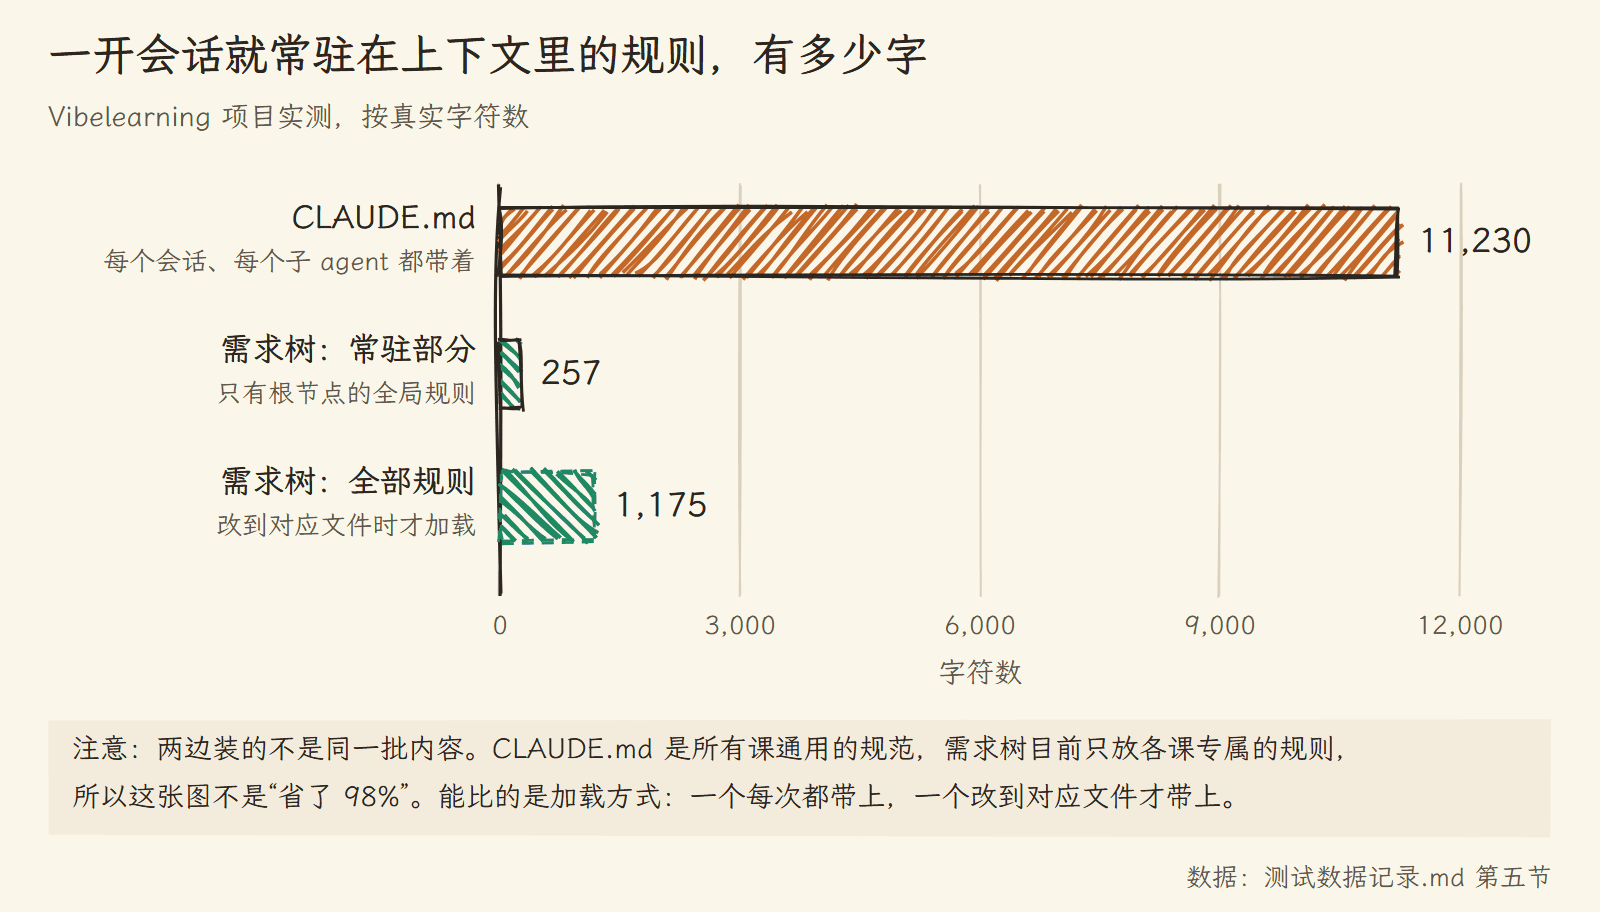
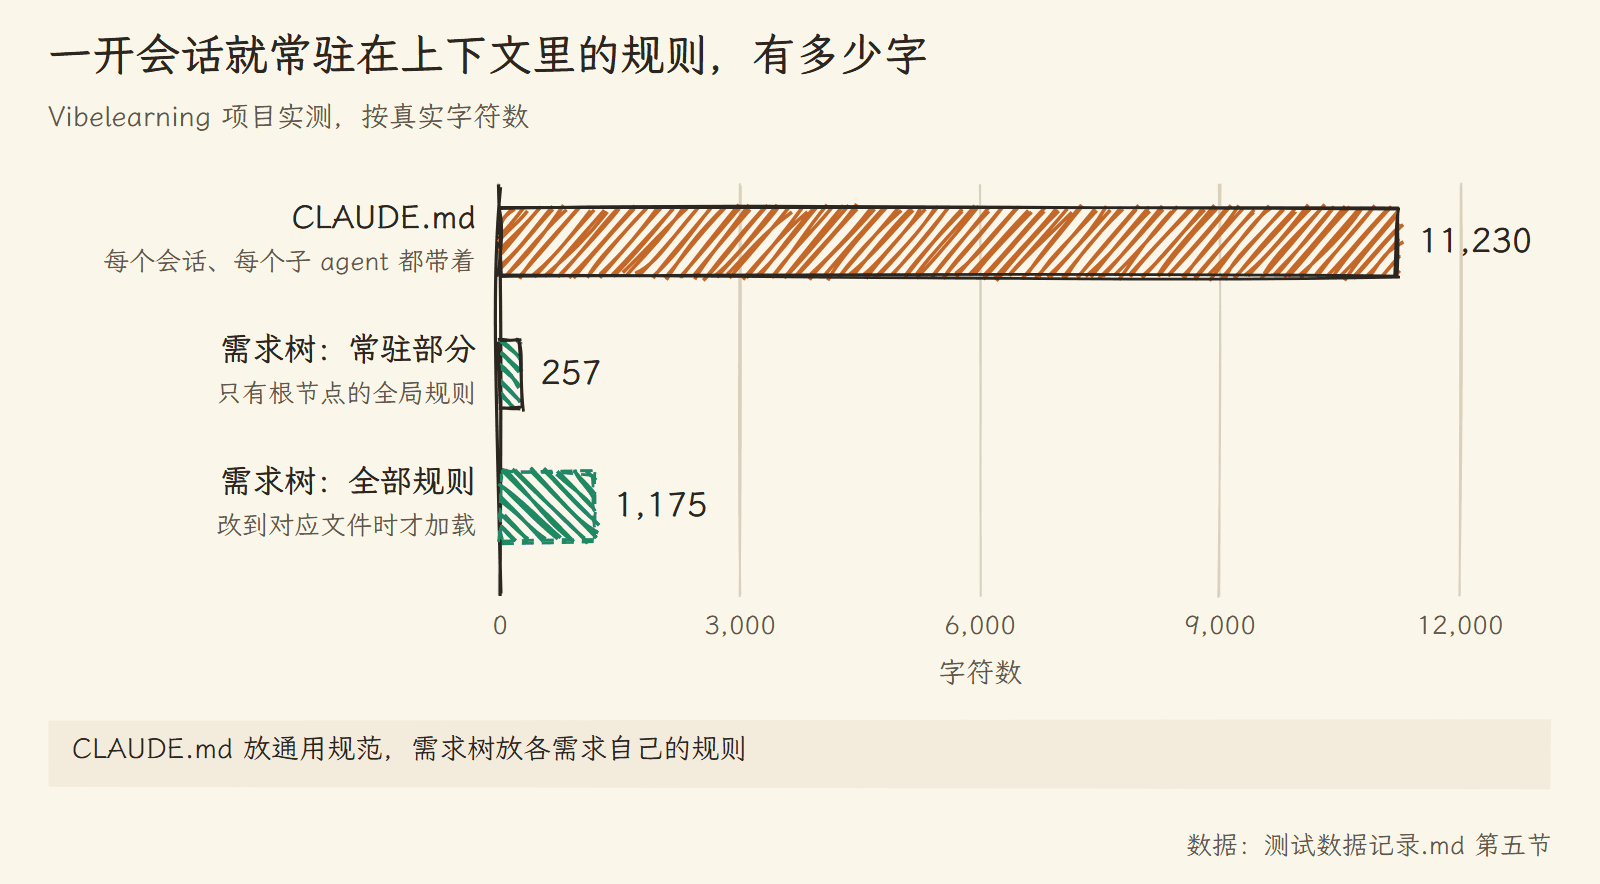
README 去掉防御性写法，图表脚注精简；安装说明加入一键启用、npx 和 Codex

diff --git a/README.en.md b/README.en.md
@@ -2,7 +2,7 @@
 
 **Help your AI coding assistant remember the rules you set: every rule lives in one place, the assistant gets only the rules for the files it is editing, and the long-term requirements you mention in chat are recorded automatically.**
 
-For [Claude Code](https://claude.com/claude-code), with a VS Code extension. **English** | [中文](README.md)
+For [Claude Code](https://claude.com/claude-code) and [OpenAI Codex](https://developers.openai.com/codex), with a VS Code extension. **English** | [中文](README.md)
 
 > 🚧 The code is getting its final cleanup and tests and will be uploaded here shortly. For now you can read the introduction and the test data.
 
@@ -20,7 +20,7 @@ And the longer the conversation, the more the assistant forgets. After context c
 
 ![Rules scattered across many places](docs/images/en/pain.png)
 
-This is not hypothetical. The author audited their own course project after a few months of work: across 21 rule documents (over 80,000 characters), there were **237 duplicated, contradictory or outdated rules**. One document said "run only one agent at a time", another said "two or three chapters can run in parallel"; the same "three checks" rule had been copied 15 times.
+The author audited their own course project after a few months of work: 21 rule documents, over 80,000 characters, **237 duplicated, contradictory or outdated rules**. One document said "run only one agent at a time", another said "two or three chapters can run in parallel"; the same "three checks" rule had been copied 15 times.
 
 ## What it does for you
 
@@ -41,20 +41,22 @@ This is not hypothetical. The author audited their own course project after a fe
 |---|---|
 | <img src="docs/images/ui-sidebar.png" width="300"> | <img src="docs/images/ui-map.png" width="560"> |
 
-Rendered with the extension's own UI code in a browser preview, using `example/需求树.md`.
-
 ## Getting started
 
-**You need** Node.js 18+, Claude Code and VS Code.
+**You need** Node.js 18+, VS Code, and Claude Code or OpenAI Codex.
 
-1. Get the repo and enable it for your project:
-   ```bash
-   git clone https://github.com/penstic123-code/Vibecoding-Friend.git
-   node Vibecoding-Friend/bin/reqtree.js init <your-project>
-   ```
-   This adds hooks to the project's `.claude/settings.local.json` and creates a template `需求树.md` if there is none.
-2. Install the VS Code extension: download `reqtree-<version>.vsix` from [Releases](https://github.com/penstic123-code/Vibecoding-Friend/releases), then Extensions → `…` → "Install from VSIX".
+1. Install the VS Code extension: download `reqtree-<version>.vsix` from [Releases](https://github.com/penstic123-code/Vibecoding-Friend/releases), then Extensions → `…` → "Install from VSIX".
+2. Open your project. The extension asks whether to enable ReqTree here — click enable. (Or run "需求树：在本项目启用" from the command palette.)
 3. Start a new Claude Code session and work as usual.
+
+Prefer the command line?
+
+```bash
+npx github:penstic123-code/Vibecoding-Friend init <your-project>               # Claude Code
+npx github:penstic123-code/Vibecoding-Friend init <your-project> --tool codex # OpenAI Codex
+```
+
+Enabling installs hooks in the project (Claude Code: `.claude/settings.local.json`; Codex: `.codex/hooks.json` plus a managed block in `AGENTS.md`) and creates a template `需求树.md` if there is none. The hook scripts are copied to `~/.reqtree/runtime/` and refreshed when the extension updates. For Codex details see [docs/codex.md](docs/codex.md) (in Chinese).
 
 Day to day you don't do anything extra:
 - Say "from now on, end every chapter with a reflection question", and after that turn it appears in the tree.
@@ -114,7 +116,7 @@ Everything revolves around one file. While you chat, a background recorder write
 | Hooks add nothing to the conversation | ✅ |
 | Old rules are rewritten instead of duplicated, so the tree doesn't keep growing | ✅ |
 | The recorder uses the inexpensive Haiku model in the background; short replies skip it | ✅ |
-| Context meter: which rules each session loaded and how many characters each | In progress |
+| Context meter: which rules each session loaded, how many characters each, resident vs on demand | Logging done; panel view in progress |
 | Split CLAUDE.md: move requirement-specific content into the tree so it loads on demand | Planned |
 | Cross-file duplicate and contradiction check between the tree, CLAUDE.md and project docs | Planned (experiment script exists) |
 
@@ -122,27 +124,27 @@ Everything revolves around one file. While you chat, a background recorder write
 
 ## Test data
 
-Every number comes from [`测试数据记录.md`](测试数据记录.md) (the test log, in Chinese), including the experiments that did not show an advantage.
+Raw data and experiment conditions are in [`测试数据记录.md`](测试数据记录.md) (the test log, in Chinese).
 
 **Does the recorder judge correctly?** Six kinds of situations, three runs each, with the real Haiku model: a reworded duplicate is not added, a change of mind rewrites the original rule, a genuinely new rule is added, a one-off instruction is ignored, a rejected rule is deleted, and a child repeating its parent is not added. 18 out of 18 correct.
 
 ![Recorder accuracy](docs/images/en/chart-recorder.png)
 
-**With or without ReqTree — do rules get messier?** A simulated 32-turn conversation in which the user gradually states 13 long-term requirements, changes their mind, cancels some and adds exceptions. Three arms: the assistant maintaining its own rule document (plain prompt, careful prompt) and the ReqTree recorder. ReqTree left no redundant entries and attached no rule to the wrong scope; all three arms missed some requirements. The model saw the whole document every turn, which is easier than real life, and the sample is small, so the difference is not significant.
+**With or without ReqTree — do rules get messier?** A simulated 32-turn conversation in which the user gradually states 13 long-term requirements, changes their mind, cancels some and adds exceptions. Three arms: the assistant maintaining its own rule document (plain prompt, careful prompt) and the ReqTree recorder. When the assistant kept its own document, a cancelled rule turned into a new "don't …" entry that stayed behind, and some rules landed in the wrong scope; ReqTree had neither problem. All three arms missed some requirements.
 
 ![Rule problems after a simulated conversation](docs/images/en/chart-confusion.png)
 
-**How messy is a real project?** In a real course project's 21 rule documents, most problems sit **across files**: the same rule copied in several places, updated in one and stale in the others. That is exactly what "one rule, one place" is meant to fix. Proving that ReqTree reduces it needs a second experiment that simulates many files and many sessions.
+**How messy is a real project?** In a real course project's 21 rule documents, most problems sit **across files**: the same rule copied in several places, updated in one and stale in the others. With ReqTree each rule has exactly one place, which removes this class of problem at the root.
 
 ![Audit of real rule documents](docs/images/en/chart-audit.png)
 
-## Limitations
+## Current limits
 
-- Claude Code only for now (it relies on Claude Code hooks and path-scoped rules). Codex support is in progress.
+- Works with Claude Code and OpenAI Codex. Codex has no path-scoped rules, so ReqTree uses an index in `AGENTS.md` plus hooks that deliver the right rules (see docs/codex.md).
 - The recorder sometimes misses things, especially decisions about a single chapter's content ("open Chapter 1 with this story"). You can add those by hand in the panel.
-- Each turn costs one extra Haiku call, in the background (about 6 seconds; you never wait for it).
+- Each turn costs one extra Haiku call, run in the background (about 6 seconds).
 - The extension UI is in Chinese for now.
-- Developed and tested mainly on Windows; macOS and Linux run the test suite in CI but haven't been used by a person yet.
+- Developed on Windows; macOS and Linux are covered by CI.
 
 ## Command line
 

diff --git a/README.md b/README.md
@@ -2,7 +2,7 @@
 
 **让 AI 编程助手记住你定下的规则：一条规则只放一处，改到哪个文件就带上哪条规则，你说过的长期要求自动记下来。**
 
-给 [Claude Code](https://claude.com/claude-code) 用，带一个 VS Code 插件。[English](README.en.md) | **中文**
+给 [Claude Code](https://claude.com/claude-code) 和 [OpenAI Codex](https://developers.openai.com/codex) 用，带一个 VS Code 插件。[English](README.en.md) | **中文**
 
 > 🚧 代码正在做最后的整理和测试，很快上传到这个仓库。现在你看到的是介绍和测试数据。
 
@@ -18,7 +18,7 @@
 
 ![规则散在好几个地方](docs/images/pain.png)
 
-这不是想象。作者用自己做了几个月的课程项目体检了一次：21 份规则文档、8 万多字里，查出 **237 处重复、矛盾和过时**。比如 agent 并行数，一份文档写"一次只开一个"，另一份写"可以两三章并行"；同一条"三道检查"在不同文件里抄了 15 遍。
+作者体检了自己做了几个月的课程项目：21 份规则文档、8 万多字里，有 **237 处重复、矛盾和过时**。比如 agent 并行数，一份文档写"一次只开一个"，另一份写"可以两三章并行"；同一条"三道检查"在不同文件里抄了 15 遍。
 
 ## 它有什么用
 
@@ -39,20 +39,22 @@
 |---|---|
 | <img src="docs/images/ui-sidebar.png" width="300"> | <img src="docs/images/ui-map.png" width="560"> |
 
-截图来自浏览器预览，用的是插件同一套界面代码和 `example/需求树.md`。
-
 ## 怎么用
 
-**需要**：Node.js 18 以上、Claude Code、VS Code。
+**需要**：Node.js 18 以上、VS Code，以及 Claude Code 或 OpenAI Codex。
 
-1. 下载这个仓库，在项目里启用：
-   ```bash
-   git clone https://github.com/penstic123-code/Vibecoding-Friend.git
-   node Vibecoding-Friend/bin/reqtree.js init <你的项目目录>
-   ```
-   它会在项目的 `.claude/settings.local.json` 里加上 hook，没有 `需求树.md` 就建一个模板。
-2. 装 VS Code 插件：从 [Releases](https://github.com/penstic123-code/Vibecoding-Friend/releases) 下载 `reqtree-<版本>.vsix`，在扩展面板 → `…` → 「从 VSIX 安装」。
+1. 装 VS Code 插件：从 [Releases](https://github.com/penstic123-code/Vibecoding-Friend/releases) 下载 `reqtree-<版本>.vsix`，在扩展面板 → `…` → 「从 VSIX 安装」。
+2. 打开你的项目，插件会问「在这个项目启用需求树？」，点「启用」。（也可以在命令面板运行「需求树：在本项目启用」。）
 3. 新开一个 Claude Code 会话，照常工作。
+
+不用插件、只用命令行也可以：
+
+```bash
+npx github:penstic123-code/Vibecoding-Friend init <你的项目目录>               # Claude Code
+npx github:penstic123-code/Vibecoding-Friend init <你的项目目录> --tool codex # OpenAI Codex
+```
+
+启用会在项目里装好 hook（Claude Code 写进 `.claude/settings.local.json`，Codex 写进 `.codex/hooks.json` 和 `AGENTS.md` 的一个自动维护区块），没有 `需求树.md` 就建一个模板。hook 程序复制到你的用户目录 `~/.reqtree/runtime/`，插件升级后自动更新。Codex 的用法和差别见 [docs/codex.md](docs/codex.md)。
 
 平时你什么都不用多做：
 - 你在对话里说"以后每章结尾都加一道思考题"，这一轮结束后它会出现在树上；
@@ -112,7 +114,7 @@
 | hook 不往对话里加内容 | ✅ |
 | 改写旧规则而不是新增，树不会越堆越长 | ✅ |
 | 记录员用便宜的 Haiku，在后台跑；短回复不调用模型 | ✅ |
-| 上下文用量表：面板显示每个会话加载了哪些规则、各多少字 | 计划中 |
+| 上下文用量表：每个会话加载了哪些规则、各多少字、哪些常驻哪些按需 | 记录已完成，面板显示开发中 |
 | 从 CLAUDE.md 拆分：把只属于某个需求的内容搬进树里按需加载 | 计划中 |
 | 跨文件查重查矛盾：需求树和 CLAUDE.md、项目文档之间 | 计划中（已有实验脚本） |
 
@@ -120,26 +122,26 @@
 
 ## 测试数据
 
-所有数字都来自 [`测试数据记录.md`](测试数据记录.md)，包括没有证明出优势的实验。
+原始数据和实验条件都在 [`测试数据记录.md`](测试数据记录.md)。
 
 **记录员判断得准不准。** 6 类情况各跑 3 遍，用真实的 Haiku：换说法重复的不加、改主意的改写原条、真正的新规则才加、一次性指令不记、否决的删掉、子需求重复上级的不加。18 次全对。
 
 ![记录员判断准确率](docs/images/chart-recorder.png)
 
-**装与不装，规则会不会更乱。** 模拟 32 轮对话，用户陆续提 13 条长期要求，中途改主意、取消、加例外。三组对比：AI 自己维护规则文档（普通提示词、认真提示词）和需求树的记录员。需求树没有留下多余条目，也没有挂错范围；三组都会漏记。这个实验每轮都把整份文档给模型看，比真实情况宽松，样本也小，差距不显著。
+**装与不装，规则会不会更乱。** 模拟 32 轮对话，用户陆续提 13 条长期要求，中途改主意、取消、加例外。三组对比：AI 自己维护规则文档（普通提示词、认真提示词）和需求树的记录员。AI 自己记时，取消的规则会变成一条新的"不要……"留在文档里，有的规则挂到了错误的范围；需求树没有这两种问题。三组都有漏记。
 
 ![模拟对话后的规则毛病](docs/images/chart-confusion.png)
 
-**真实项目里有多乱。** 体检一个真实课程项目的 21 份规则文档，查出的问题主要在**跨文件**这一层：同一条规则抄在好几处，改了一处，别处还是旧的。这正是"一条规则只放一处"要解决的问题；要证明需求树能减少这类问题，还需要模拟多文件、多会话的第二版实验。
+**真实项目里有多乱。** 体检一个真实课程项目的 21 份规则文档，问题集中在**跨文件**这一层：同一条规则抄在好几处，改了一处，别处还是旧的。需求树让每条规则只有一个位置，从根上避开这类问题。
 
 ![真实规则文档体检](docs/images/chart-audit.png)
 
-## 局限
+## 目前的限制
 
-- 目前只支持 Claude Code（依赖它的 hook 和路径规则）。
+- 支持 Claude Code 和 OpenAI Codex。Codex 没有按文件加载规则的机制，改用 `AGENTS.md` 里的索引加 hook 补送，见 [docs/codex.md](docs/codex.md)。
 - 记录员会漏记，尤其是"第 1 章开头用某个故事"这类只关于一章的内容决定。漏了可以在面板上手动加。
-- 每轮对话多一次 Haiku 调用（在后台，约 6 秒，不让你等）。
-- 主要在 Windows 上开发和测试；Mac 和 Linux 由 CI 跑测试，还没有真人用过。
+- 每轮对话多一次 Haiku 调用，在后台跑，约 6 秒。
+- 在 Windows 上开发；Mac 和 Linux 由 CI 跑测试。
 
 ## 命令行
 

diff --git a/测试数据记录.md b/测试数据记录.md
@@ -11,6 +11,7 @@
 | 2026-10-22 | 6 × 1 | 6/6 | 加入 replace_rule 和"先找同主题规则"提示词后第一次跑 |
 | 2026-10-22 | 6 × 3 | 18/18 | 三遍输出完全一致 |
 | 2026-10-22 | 6 × 3 | 18/18 | 去掉确认模式后（直接生效）；检查改为看规则是否真的被改写或删除，"修改已有规则"还要求没有多出规则 |
+| 2026-10-22 | 6 × 3 | 18/18 | 加入同节点同键自动改写、过滤无根据的 add_files 之后 |
 
 用例：换说法重复（不该加）、修改已有规则（该改写）、真的新规则（该新增）、一次性指令（不该动树）、否决规则（该删除）、子需求重复上级（不该加）。
 
